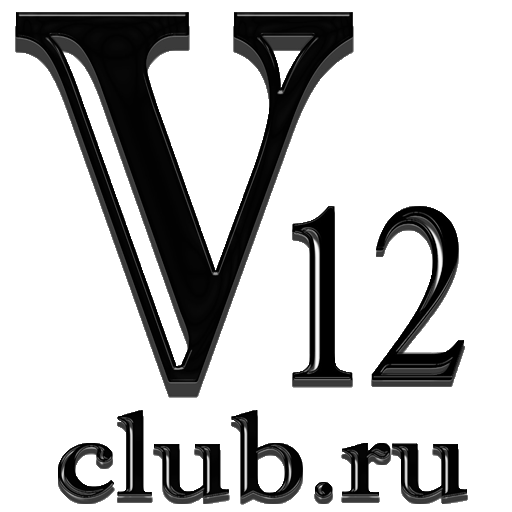
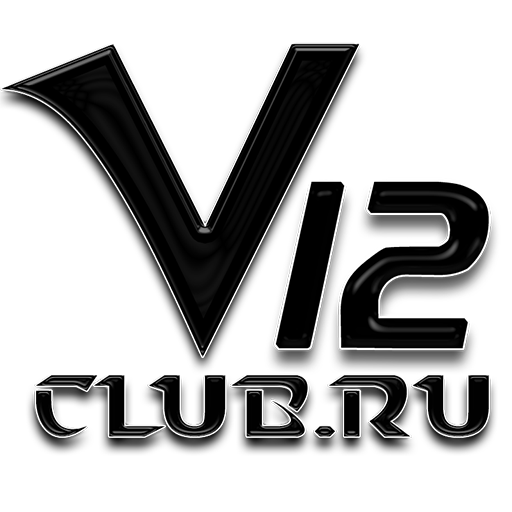
v10 final

diff --git a/v12club/v12club/Views/LoginView.xaml b/v12club/v12club/Views/LoginView.xaml
@@ -18,7 +18,7 @@
         Padding="10,0,10,0">
           <Image
           VerticalOptions="Start" HorizontalOptions="Center"
-          Source="v12club_logo2.png"></Image>
+          Source="v12club_logo.png"></Image>
         <Entry
           Keyboard="Numeric"
           BackgroundColor="#243238"

diff --git a/v12club/v12club/Views/Content.xaml b/v12club/v12club/Views/Content.xaml
@@ -63,7 +63,7 @@
         VerticalOptions="StartAndExpand"
         Padding="10,5.5,10,0">
         <Image
-          Source="v12club_logo2.png"></Image>
+          Source="v12club_logo.png"></Image>
         <ActivityIndicator
           VerticalOptions="Start"
           HeightRequest="100"

diff --git a/v12club/v12club.Android/Resources/Resource.designer.cs b/v12club/v12club.Android/Resources/Resource.designer.cs
@@ -8429,9 +8429,6 @@ namespace v12club.Droid
 			// aapt resource value: 0x7F070083
 			public const int v12club_logo = 2131165315;
 			
-			// aapt resource value: 0x7F070084
-			public const int v12club_logo2 = 2131165316;
-			
 			static Drawable()
 			{
 				global::Android.Runtime.ResourceIdManager.UpdateIdValues();
@@ -9295,76 +9292,73 @@ namespace v12club.Droid
 			public const int FlyoutContent = 2131427373;
 			
 			// aapt resource value: 0x7F0B002E
-			public const int launcher = 2131427374;
+			public const int mtrl_layout_snackbar = 2131427374;
 			
 			// aapt resource value: 0x7F0B002F
-			public const int mtrl_layout_snackbar = 2131427375;
+			public const int mtrl_layout_snackbar_include = 2131427375;
 			
 			// aapt resource value: 0x7F0B0030
-			public const int mtrl_layout_snackbar_include = 2131427376;
+			public const int notification_action = 2131427376;
 			
 			// aapt resource value: 0x7F0B0031
-			public const int notification_action = 2131427377;
+			public const int notification_action_tombstone = 2131427377;
 			
 			// aapt resource value: 0x7F0B0032
-			public const int notification_action_tombstone = 2131427378;
+			public const int notification_media_action = 2131427378;
 			
 			// aapt resource value: 0x7F0B0033
-			public const int notification_media_action = 2131427379;
+			public const int notification_media_cancel_action = 2131427379;
 			
 			// aapt resource value: 0x7F0B0034
-			public const int notification_media_cancel_action = 2131427380;
+			public const int notification_template_big_media = 2131427380;
 			
 			// aapt resource value: 0x7F0B0035
-			public const int notification_template_big_media = 2131427381;
+			public const int notification_template_big_media_custom = 2131427381;
 			
 			// aapt resource value: 0x7F0B0036
-			public const int notification_template_big_media_custom = 2131427382;
+			public const int notification_template_big_media_narrow = 2131427382;
 			
 			// aapt resource value: 0x7F0B0037
-			public const int notification_template_big_media_narrow = 2131427383;
+			public const int notification_template_big_media_narrow_custom = 2131427383;
 			
 			// aapt resource value: 0x7F0B0038
-			public const int notification_template_big_media_narrow_custom = 2131427384;
+			public const int notification_template_custom_big = 2131427384;
 			
 			// aapt resource value: 0x7F0B0039
-			public const int notification_template_custom_big = 2131427385;
+			public const int notification_template_icon_group = 2131427385;
 			
 			// aapt resource value: 0x7F0B003A
-			public const int notification_template_icon_group = 2131427386;
+			public const int notification_template_lines_media = 2131427386;
 			
 			// aapt resource value: 0x7F0B003B
-			public const int notification_template_lines_media = 2131427387;
+			public const int notification_template_media = 2131427387;
 			
 			// aapt resource value: 0x7F0B003C
-			public const int notification_template_media = 2131427388;
+			public const int notification_template_media_custom = 2131427388;
 			
 			// aapt resource value: 0x7F0B003D
-			public const int notification_template_media_custom = 2131427389;
+			public const int notification_template_part_chronometer = 2131427389;
 			
 			// aapt resource value: 0x7F0B003E
-			public const int notification_template_part_chronometer = 2131427390;
+			public const int notification_template_part_time = 2131427390;
 			
 			// aapt resource value: 0x7F0B003F
-			public const int notification_template_part_time = 2131427391;
+			public const int RootLayout = 2131427391;
 			
 			// aapt resource value: 0x7F0B0040
-			public const int RootLayout = 2131427392;
+			public const int select_dialog_item_material = 2131427392;
 			
 			// aapt resource value: 0x7F0B0041
-			public const int select_dialog_item_material = 2131427393;
+			public const int select_dialog_multichoice_material = 2131427393;
 			
 			// aapt resource value: 0x7F0B0042
-			public const int select_dialog_multichoice_material = 2131427394;
+			public const int select_dialog_singlechoice_material = 2131427394;
 			
 			// aapt resource value: 0x7F0B0043
-			public const int select_dialog_singlechoice_material = 2131427395;
+			public const int ShellContent = 2131427395;
 			
 			// aapt resource value: 0x7F0B0044
-			public const int ShellContent = 2131427396;
-			
-			// aapt resource value: 0x7F0B0045
-			public const int support_simple_spinner_dropdown_item = 2131427397;
+			public const int support_simple_spinner_dropdown_item = 2131427396;
 			
 			static Layout()
 			{

diff --git a/v12club/v12club/Views/Content.xaml.cs b/v12club/v12club/Views/Content.xaml.cs
@@ -52,7 +52,7 @@ namespace v12club.Views
 			return true;
 		}
 
-		async void WebView_Navigated(object sender, Xamarin.Forms.WebNavigatedEventArgs e)
+		void WebView_Navigated(object sender, Xamarin.Forms.WebNavigatedEventArgs e)
 		{
 			if (App.BridgeObject.IsFirstLoad)
 			{
@@ -69,12 +69,15 @@ namespace v12club.Views
 				WebView_wrapper.IsVisible = false;
 				Page_wrapper.IsVisible = true;
 			}
+
+			if (Indicator_wrapper.IsVisible)
+				Indicator_wrapper.FadeTo(0, 300).ContinueWith(t => MainThread.BeginInvokeOnMainThread(() =>
+				{
+					Indicator_wrapper.IsVisible = false;
+					Buttons_grid.InputTransparent = false;
+				}));
+
 			App.IsBusy = false;
-			await Indicator_wrapper.FadeTo(0, 300).ContinueWith(t => MainThread.BeginInvokeOnMainThread(() =>
-			{
-				Indicator_wrapper.IsVisible = false; 
-				Buttons_grid.InputTransparent = false;
-			}));
 		}
 
 		public void JSNotifyHandler(string data)
@@ -87,12 +90,15 @@ namespace v12club.Views
 			if (obj.EventType == "onbeforeunload")
 			{
 				App.IsBusy = true;
-				MainThread.BeginInvokeOnMainThread(() =>
+				if (!WebView_wrapper.IsVisible)
 				{
-					Buttons_grid.InputTransparent = true;
-					Indicator_wrapper.IsVisible = true;
-					Indicator_wrapper.FadeTo(1, 300);
-				});
+					MainThread.BeginInvokeOnMainThread(() =>
+					{
+						Buttons_grid.InputTransparent = true;
+						Indicator_wrapper.IsVisible = true;
+						Indicator_wrapper.FadeTo(1, 300);
+					});
+				}
 			}
 
 			if (obj.EventType == "click")
@@ -100,7 +106,7 @@ namespace v12club.Views
 				Vibration.Vibrate(5);
 			}
 
-			if (obj.EventType == "DOMContentLoaded")
+			if (obj.EventType == "loaded")
 			{
 				if (App.BridgeObject.ClientStatus == Models.Status.TryAuthorization)
 				{

diff --git a/v12club/v12club/ViewModels/MainPageViewModel.cs b/v12club/v12club/ViewModels/MainPageViewModel.cs
@@ -21,7 +21,7 @@ namespace v12club.ViewModels
 			if (DeviceInfo.Platform != DevicePlatform.UWP) Vibration.Vibrate(50);
 
 			var button = App.Current.MainPage.FindByName<ImageButton>(obj.ToString());
-			var buttons = App.Current.MainPage.FindByName<Grid>("Buttons_grid").Children;
+			var buttons = App.Current.MainPage.FindByName<Grid>("Buttons_grid").Children.Where(child => child.GetType() == typeof(ImageButton));
 
 			var url = obj.ToString() == "garage" ? $"personal_cabinet?{obj}" : obj;
 			url = obj.ToString() == "personal_cabinet" ? "personal_cabinet?personal_info_edit" : url;

diff --git a/v12club/v12club.Android/ITWikiHybridWebView/HybridWebViewRenderer.cs b/v12club/v12club.Android/ITWikiHybridWebView/HybridWebViewRenderer.cs
@@ -32,7 +32,7 @@ namespace v12club.Droid
 			if (e.NewElement != null)
 			{
 				Control.Settings.UserAgentString = "android";
-				Control.Settings.CacheMode = Android.Webkit.CacheModes.NoCache;
+				Control.Settings.CacheMode = Android.Webkit.CacheModes.CacheElseNetwork;
 				Control.SetWebViewClient(new JavascriptWebViewClient(this, $"javascript: {JavascriptFunction}"));
 				Control.AddJavascriptInterface(new JSBridge(this), "jsBridge");
 				Control.LoadUrl(((HybridWebView)Element).Uri);

diff --git a/v12club/v12club/MainPage.xaml.cs b/v12club/v12club/MainPage.xaml.cs
@@ -1,14 +1,4 @@
-using System;
-
-using v12club.ViewModels;
-using v12club.Views;
-
-using Xamarin.Essentials;
-using Xamarin.Forms;
-using Xamarin.Forms.PlatformConfiguration;
-using Xamarin.Forms.PlatformConfiguration.AndroidSpecific;
-
-namespace v12club
+namespace v12club
 {
 	public partial class MainPage : Xamarin.Forms.TabbedPage
 	{

diff --git a/v12club/v12club.Android/SplashActivity.cs b/v12club/v12club.Android/SplashActivity.cs
@@ -18,14 +18,6 @@ namespace v12club.Droid
 		protected override void OnResume()
 		{
 			base.OnResume();
-
-			var preloader = new Task(async () =>
-			{
-				await Task.Delay(1500);
-			});
-
-			preloader.Start();
-
 			StartActivity(new Intent(Application.Context, typeof(MainActivity)));
 		}
 	}

diff --git a/v12club/v12club.iOS/HybridWebViewRenderer.cs b/v12club/v12club.iOS/HybridWebViewRenderer.cs
@@ -41,7 +41,7 @@ namespace v12club.iOS
 
 			if (NativeView != null && e.NewElement != null)
 			{
-				var url = new NSUrlRequest(new NSUrl("https://v12club.ru/"));
+				var url = new NSUrlRequest(new NSUrl(((HybridWebView)Element).Uri));
 				CustomUserAgent = "ios";
 				LoadRequest(url);
 			}

diff --git a/v12club/v12club.Android/ITWikiHybridWebView/JavascriptWebViewClient.cs b/v12club/v12club.Android/ITWikiHybridWebView/JavascriptWebViewClient.cs
@@ -23,10 +23,9 @@ namespace v12club.Droid
 			{
 				view.EvaluateJavascript(_javascript, null);
 			}
-			catch (Exception exp)
+			catch 
 			{
 
-				//Support.ConsoleLog(exp.Message + "\n" + exp.StackTrace);
 			}
 
 		}
